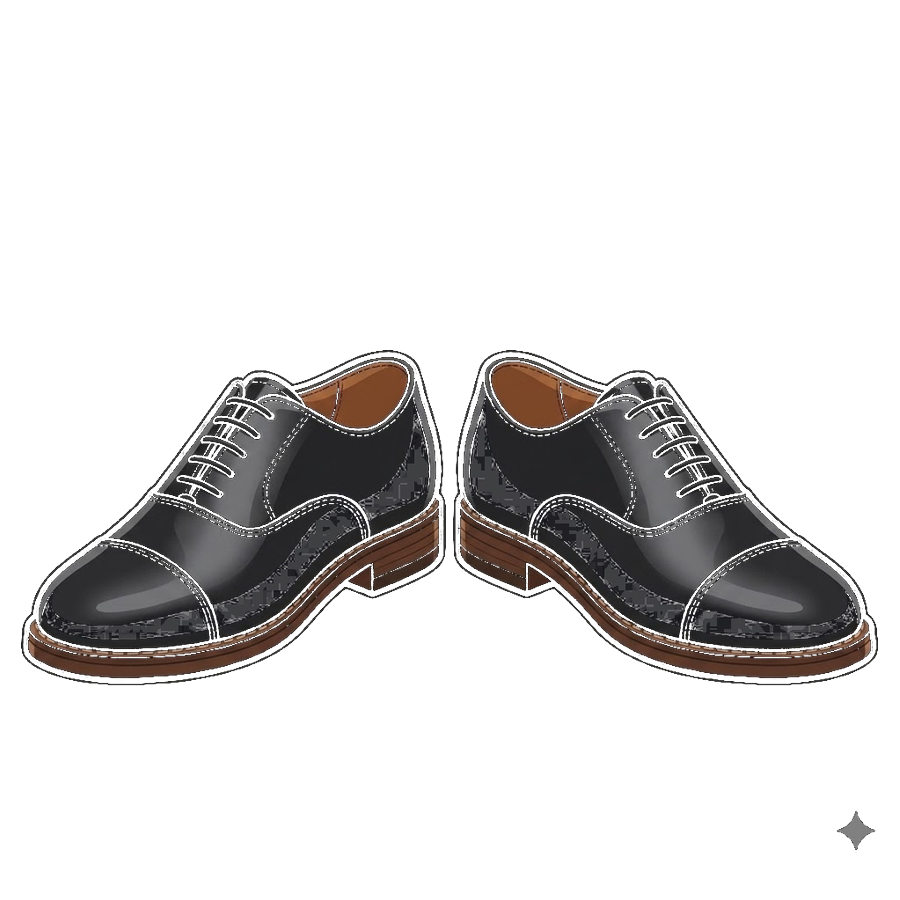
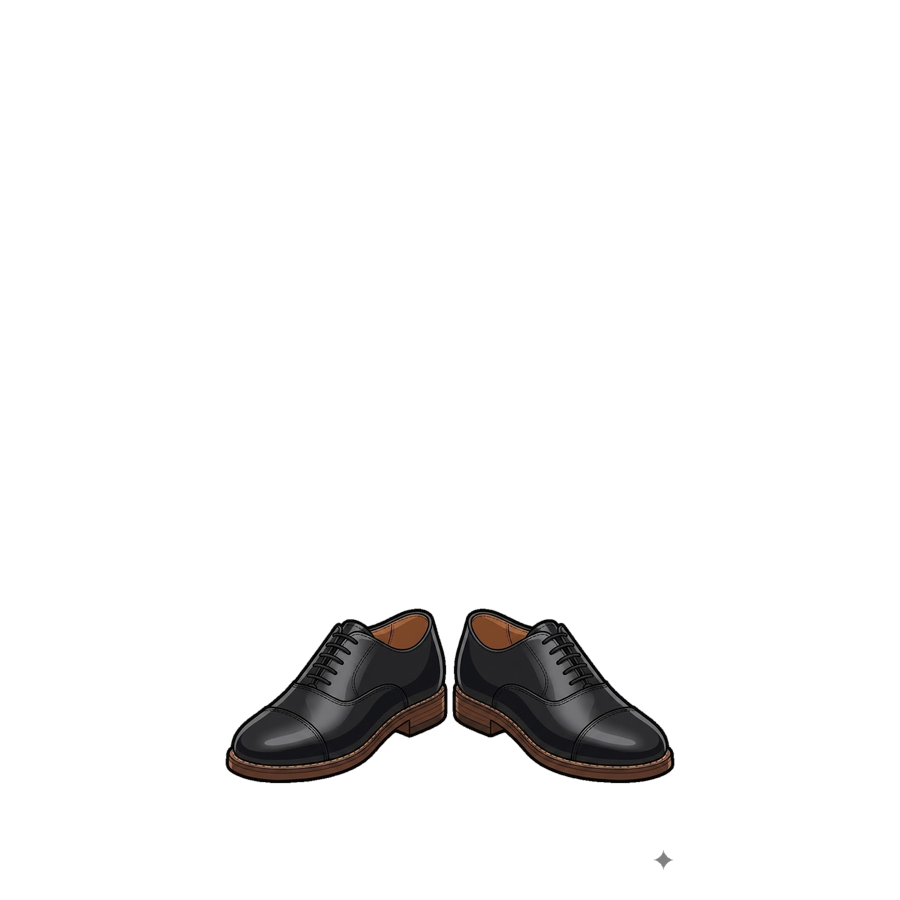
feat(SocialBattery): add outfit/torso system with shirts and tshirts

Changed region(s): [[0.0, 0.3733, 0.9956, 0.8711], [0.9333, 0.9022, 0.9644, 0.9333], [0.7156, 0.9333, 0.7467, 0.9644]]

diff --git a/SocialBattery/sb_koyeb/client/src/components/MascotDisplay.jsx b/SocialBattery/sb_koyeb/client/src/components/MascotDisplay.jsx
@@ -155,7 +155,7 @@ export default function MascotDisplay({
           className="absolute select-none pointer-events-none"
           style={{
             left: '35%',
-            top: '35%',
+            top: '38%',
             width: '30%',
             height: '30%',
             objectFit: 'contain',
@@ -173,7 +173,7 @@ export default function MascotDisplay({
           style={{
             left: '9%',
             width: '82%',
-            top: '20%',
+            top: '25%',
             height: '64%',
             objectFit: 'contain',
             objectPosition: 'top center',